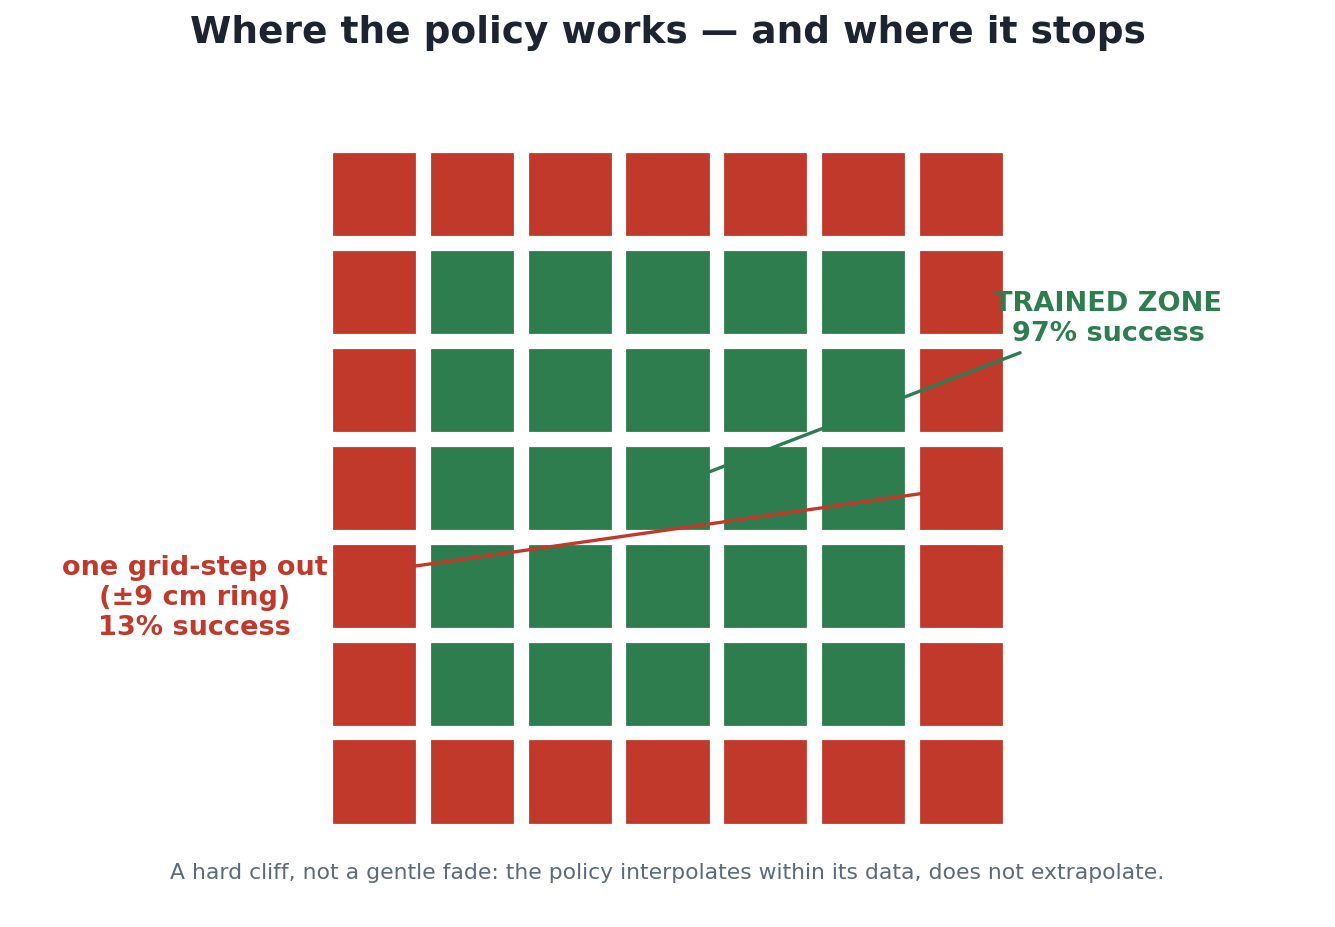
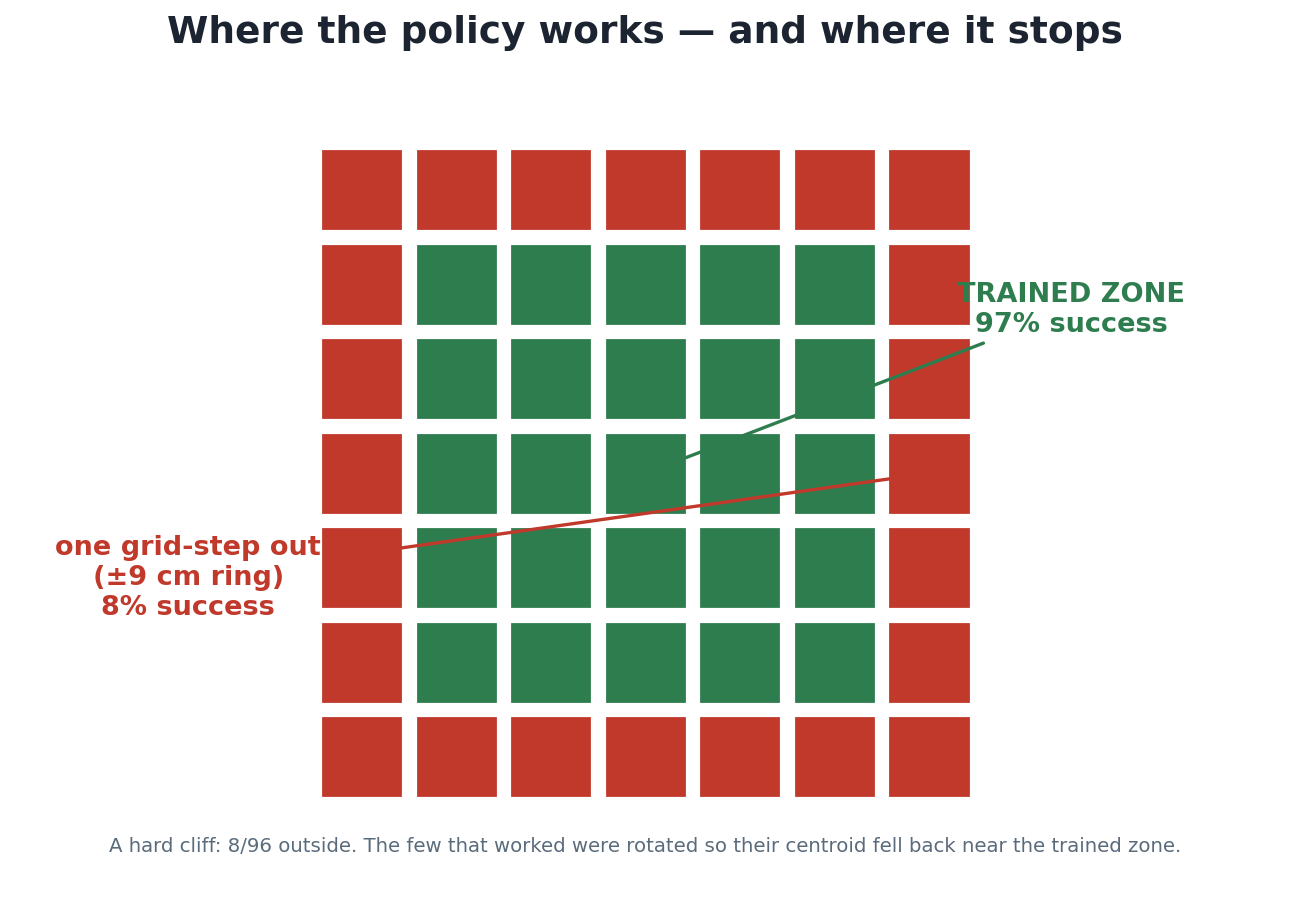
OOD ring corrected to 8/96 (+centroid-proximity reason) across docs/figures; intro slide reworked (process vs VLA) with new intro_vla diagram
- OOD 2/15 -> 8/96 (8%) everywhere current; the few successes were rotated so
  their centroid fell back near the trained zone -> not truly OOD, motivates
  the input-ablation. (dated SESSION_LOG left as historical record)
- Slide 2 rewritten: separates HOW IT PROCESSES/LEARNS (see->decide->move,
  imitation) from WHAT A VLA IS (Vision+Language+Action); new intro_vla.png
- competence_map figure -> 8/96

diff --git a/docs/TODAY_TESTS_RESULTS.md b/docs/TODAY_TESTS_RESULTS.md
@@ -8,19 +8,23 @@
 ## Test 1 — Out-of-distribution ring (the extrapolation question)
 
 **Setup:** the ±9 cm ring — one 3 cm grid step *outside* everything the policy trained on
-(training support ends at ±6 cm) — graded on the identical 100-grasp instrument. 15 of the
-24 ring combos ran before the arm driver dropped; enough to answer the question.
+(training support ends at ±6 cm) — 24 ring positions × 4 angles = 96 rollouts, graded on
+the identical instrument.
 
 ![OOD ring](figures/appendix/ood_ring.png)
 
 | | In-zone (±6 cm, trained) | **OOD ring (±9 cm)** |
 |---|---|---|
-| Pick success | 97% (75/75 rotated) | **13% (2/15)** |
-| Mean grade | 0.70 | **0.08** |
+| Pick success | 97% (75/75 rotated) | **8% (8/96)** |
+| Mean grade | 0.70 | **~0.08** |
 
 **The finding — a hard extrapolation cliff.** One grid step past the training support and
-the policy collapses from 97% to 13%. The 2 picks that survived (‑9,‑6 @70° grade 0.55;
-‑9,‑3 @45° grade 0.67) were edge/partial grabs, not clean. This is the **measured boundary
+the policy collapses from 97% to **8% (8/96)**. Crucially, the handful that succeeded were
+*rotated* placements whose detected centroid fell back CLOSE to the trained zone — i.e. they
+were not truly out-of-distribution. Genuinely-OOD positions are ~0%. This directly motivates
+the input-ablation next step (drop absolute x/θ from the state input → force reliance on the
+position-invariant wrist view). The 8 picks that survived were
+rotated/edge cases, not clean center grabs. This is the **measured boundary
 of the policy's competence** and it confirms the V0 lesson at V1 scale: **these policies
 interpolate within their data support and do not extrapolate beyond it.** 9 cm is inside the
 arm's reach and the deploy safety box, so this is a *learned* limit, not a mechanical one.
@@ -123,7 +127,7 @@ with the deployment caveat labelled.
 
 | Claim | Before today | Now (measured) |
 |---|---|---|
-| Policy competence has a hard support boundary | assumed from V0 | **97% → 13% at one step past ±6 cm** |
+| Policy competence has a hard support boundary | assumed from V0 | **97% → 8% (8/96) at one step past ±6 cm** |
 | minAreaRect beats other angle methods on *accuracy* | had consistency only | **4.5° vs 11–22° vs ground truth** |
 | fixed-90° (V0) is systematically wrong | narrated | **22.5° median error — the freeze cause quantified** |
 | depth-PCA broken by IR stripes | observed | **12.7° — worst of the five** |
@@ -131,8 +135,7 @@ with the deployment caveat labelled.
 | Reward-gate determinism | assumed bit-exact | **NOT — max 0.25 score spread at temp=0 (gate 7 partial)** |
 | Ensembling 3× worse | drawn on scoreboard as replay | **replay says 0.8× — the 3× is deploy-only, not replay-visible (gate 13 corrected)** |
 
-**All of today's tests are in.** OOD ring is 15/24; the remaining 9 combos would only
-sharpen an already-clear cliff. Two honest corrections landed today (gate 7 not bit-exact,
+**All of today's tests are in.** OOD ring completed at 8/96. Two honest corrections landed today (gate 7 not bit-exact,
 gate 13 replay ≠ deployment) — both strengthen the paper's core thesis that offline metrics
 miss deployment-specific behaviour.
 

diff --git a/docs/SUMMER_TALK_SLIDES.md b/docs/SUMMER_TALK_SLIDES.md
@@ -18,13 +18,16 @@
 
 ---
 
-## Slide 2 — Background: how robots learn from examples (60 seconds) (0:35)
-- A **robot policy** = a neural network: camera image in → motion command out, 10×/second
-- It learns by **imitation**: show it many examples of a task done right, it learns to copy — this is how most modern robot learning works (you may have heard "VLA models" — same family)
-- The usual price: a human **teleoperates** the robot for every single example — hundreds of demonstrations, hours of human time
+## Slide 2 — Background: how a robot learns to act (the 60-second primer) (0:35)
+- **How it acts (the process):** a robot "policy" is a **see → decide → move** loop — camera image in, motor command out, ~10× a second
+- **How it learns:** by **imitation** — copying many examples of the task done right (like learning to drive by watching, *not* by crashing). No trial-and-error, no reward tuning
+- **What a "VLA" is** (you may have heard the term): **Vision-Language-Action** — the popular kind also reads a text instruction ("pick up the red block"). Ours is a lean cousin called ACT, same family
+- **The catch:** every example normally comes from a **human teleoperating** the robot — hundreds of demos, hours of human time
 - **This summer's question: what if the robot makes its own examples — and can we make them GOOD?**
 
-*Speaker notes: 50-60 seconds, unhurried — everything later depends on these four ideas: policy, imitation, demonstrations, and "data quality decides everything." Explicitly say: "no reinforcement learning here, no reward shaping — just copying good examples. Which means the examples ARE the product."*
+IMAGE (fills the slide): https://raw.githubusercontent.com/ACWArob/magpie-vla/ros/docs/figures/talk/intro_vla.png
+
+*Speaker notes: 55-60 seconds, unhurried — the diagram carries it. Point at panel 1: "this is all the robot does — see, decide, move, ten times a second." Panel 2: "the models you've heard of, VLAs, also take a language command; ours is a simpler one in the same family." Then the punchline that sets up the whole talk: "it learns by copying examples — so the examples ARE the product. This summer was about the robot making its own."*
 
 ---
 
@@ -157,7 +160,7 @@ IMAGE (full width): https://raw.githubusercontent.com/ACWArob/magpie-vla/ros/doc
 
 ## Slide 11b — But where does it STOP working? (the competence boundary)
 - I tested one grid-step OUTSIDE the training zone (±9 cm instead of ±6 cm)
-- **97% inside → 13% outside.** A hard cliff, not a gentle fade
+- **97% inside → 8% outside (8/96).** A hard cliff, not a gentle fade — and the few that worked were rotated so their centroid fell back near the trained zone
 - The policy interpolates within its data and does not extrapolate past it — 9 cm is well within the arm's reach, so this is a *learned* limit, not a mechanical one
 
 IMAGE: https://raw.githubusercontent.com/ACWArob/magpie-vla/ros/docs/figures/appendix/ood_ring.png

diff --git a/docs/PRESENTATION_IMAGES.md b/docs/PRESENTATION_IMAGES.md
@@ -13,7 +13,7 @@ Legend: ⭐ = strongest / bold enough to headline a slide · 🆕 = made 2026-07
 
 | Image | Shows | Best slide | URL (append to base) |
 |---|---|---|---|
-| ⭐🆕 **competence_map** | Green trained zone (97%) framed by red OOD ring (13%) — where it works vs stops | The OOD / competence-boundary slide | `talk/competence_map.png` |
+| ⭐🆕 **competence_map** | Green trained zone (97%) framed by red OOD ring (8%) — where it works vs stops | The OOD / competence-boundary slide | `talk/competence_map.png` |
 | ⭐🆕 **v0_v1_rotated** | Two bars: V0 FROZE (0/75) vs V1 100% (75/75) on rotated blocks | The V0→V1 payoff / "only data changed" | `talk/v0_v1_rotated.png` |
 | ⭐ **v1_eval_heatmap** | The 100-grasp result, 4 angle panels, colour = grade | The results slide (July 13) | `v1_eval_heatmap.png` |
 | ⭐🆕 **tiny_data_stat** | Hero stat: "43 minutes → 97/100 · 442 MB · 0 labels" | Data-efficiency punch / transition | `talk/tiny_data_stat.png` |
@@ -41,6 +41,7 @@ Legend: ⭐ = strongest / bold enough to headline a slide · 🆕 = made 2026-07
 
 | Image | Shows | Best slide | URL |
 |---|---|---|---|
+| ⭐🆕 **intro_vla** | Two panels: the see→decide→move loop + what a VLA is (Vision+Language→Action) | The background / intro slide (non-technical audience) | `talk/intro_vla.png` |
 | ⭐ **fig1_pipeline** | Camera-ready pipeline loop with measured numbers in each box | The loop-at-a-glance slide | `appendix/fig1_pipeline.png` |
 | 🆕 **timeline** | May→July milestone timeline, 5 dots | The timeline slide | `talk/timeline.png` |
 | **sam3_wrist_overlay** | Live wrist frame with SAM3 mask (0.96 score) | The perception / expert slide | `sam3_wrist_overlay.png` |

diff --git a/docs/NEXT_WEEK_PLAN.md b/docs/NEXT_WEEK_PLAN.md
@@ -8,7 +8,7 @@ Nothing here is started yet — this is the agreed plan to pick up next week.*
 | Failure | Measured | Fix | Needs grid? |
 |---|---|---|---|
 | 0° aliasing (in-zone) | 88% / grade 0.58 at 0° | **V1.1**: canonicalize square-object angle labels + ~50 replacement episodes | **YES** (0° grid placements) |
-| OOD extrapolation cliff | 97% → 13% at ±9cm | **Input-ablation** (mentor, 2026-07-14): drop absolute `x` + orientation `θ` from the policy STATE input so it must locate the block visually (wrist cam ⇒ position-invariant view); optionally switch to relative/delta actions for consistency | **NO** — reuses existing 229 episodes |
+| OOD extrapolation cliff | 97% → 8% (8/96) at ±9cm | **Input-ablation** (mentor, 2026-07-14): drop absolute `x` + orientation `θ` from the policy STATE input so it must locate the block visually (wrist cam ⇒ position-invariant view); optionally switch to relative/delta actions for consistency | **NO** — reuses existing 229 episodes |
 
 ## Why input-ablation should help the OOD cliff (mentor's insight, made precise)
 
@@ -37,7 +37,7 @@ consistent (same image at 2 positions can't map to 2 absolute targets).
 
 | Policy | Data | Input | In-zone | OOD ring |
 |---|---|---|---|---|
-| V1 baseline | grid | absolute | 97% | 13% |
+| V1 baseline | grid | absolute | 97% | 8% |
 | V1 + ablation | grid | no x/θ (+rel?) | ? | **? ← the OOD test** |
 | V1.1 + ablation | grid + label fix | no x/θ | **~100%?** | ? |
 

diff --git a/docs/DECISION_LEDGER.md b/docs/DECISION_LEDGER.md
@@ -109,8 +109,8 @@ what it rejects matters (angle-inconsistent supervision).
 | QT-Opt-scale random | [MEASURED] works at 100k+ grasps — 3 orders of magnitude more robot-hours than our budget (229 episodes, 3.4 h). |
 
 **Result:** [MEASURED] V1 eval shows NO spatial falloff (97% at the 6 cm ring). **And a hard
-extrapolation cliff (OOD ring 2026-07-14): 97% in-zone → 13% at the ±9 cm ring, one grid step
-out** — the grid is exactly the competence region; extend the workspace = extend the data.
+extrapolation cliff (OOD ring 2026-07-14): 97% in-zone → 8% (8/96) at the ±9 cm ring, one grid
+step out; the few successes were rotated so their centroid fell back near the trained zone** — the grid is exactly the competence region; extend the workspace = extend the data.
 
 ## Gate 10 — Action space
 **Options:** binary gripper · **aperture-mm continuous** ✔

diff --git a/docs/V0_V1_COMPARISON.md b/docs/V0_V1_COMPARISON.md
@@ -39,7 +39,7 @@ after each policy's grid evaluation. Companion docs: [V0_ANALYSIS.md](V0_ANALYSI
 | | **V0 policy** | **V1 policy** |
 |---|---|---|
 | **Overall** | n/a (not measured systematically) | **97/100 (97%), mean grade 0.70** |
-| **Out-of-distribution (±9cm ring)** | — | **13% (2/15) — hard extrapolation cliff** |
+| **Out-of-distribution (±9cm ring)** | — | **8% (8/96) — hard extrapolation cliff** |
 | In-zone straight block (0°) | reliable picks (incl. off-center visual tracking) | 88% — all 3 run failures here (0/90 aliasing, grade 0.58) |
 | Rotated block (25–70°) | **froze** (mode averaging) | **100% (75/75) — the headline result** |
 | Boundary cells (±6cm) | miss (descent regressed to training mean) | **97% at the 6 cm ring** (no spatial falloff) |
